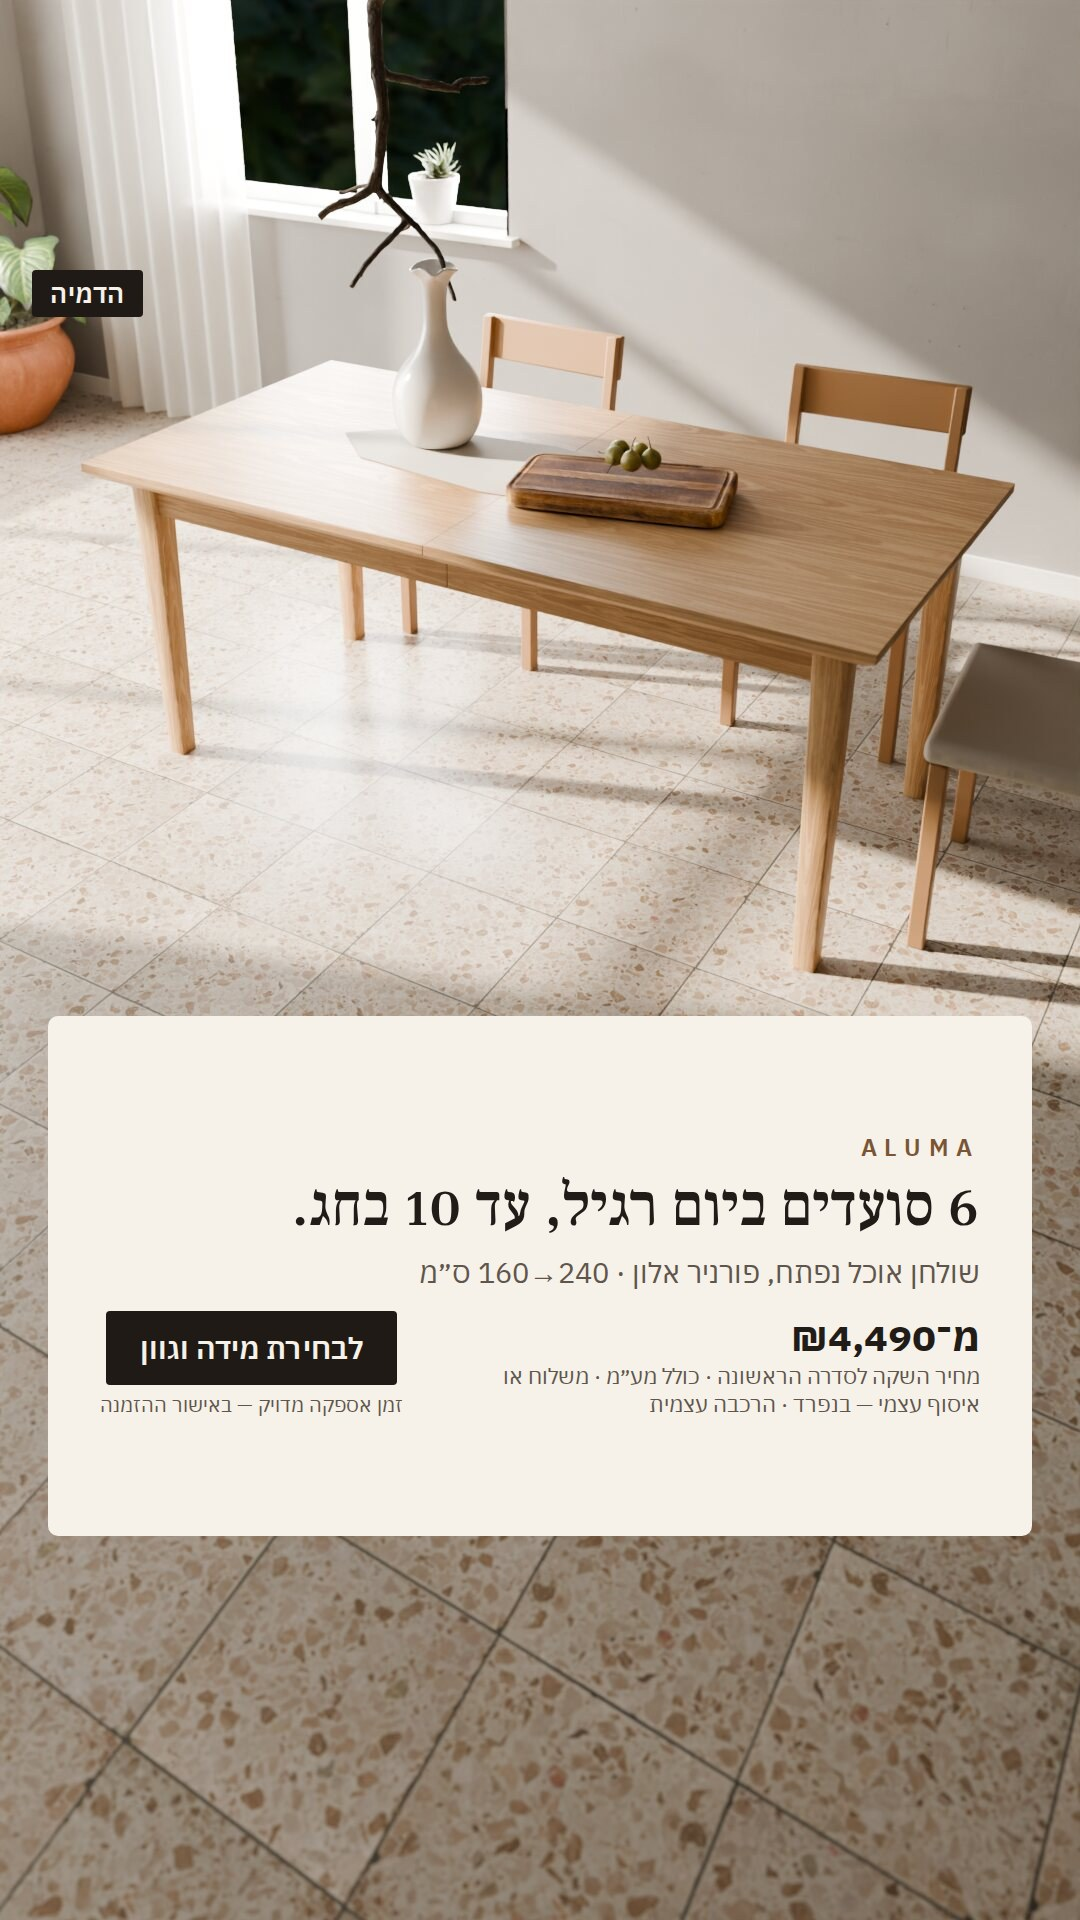
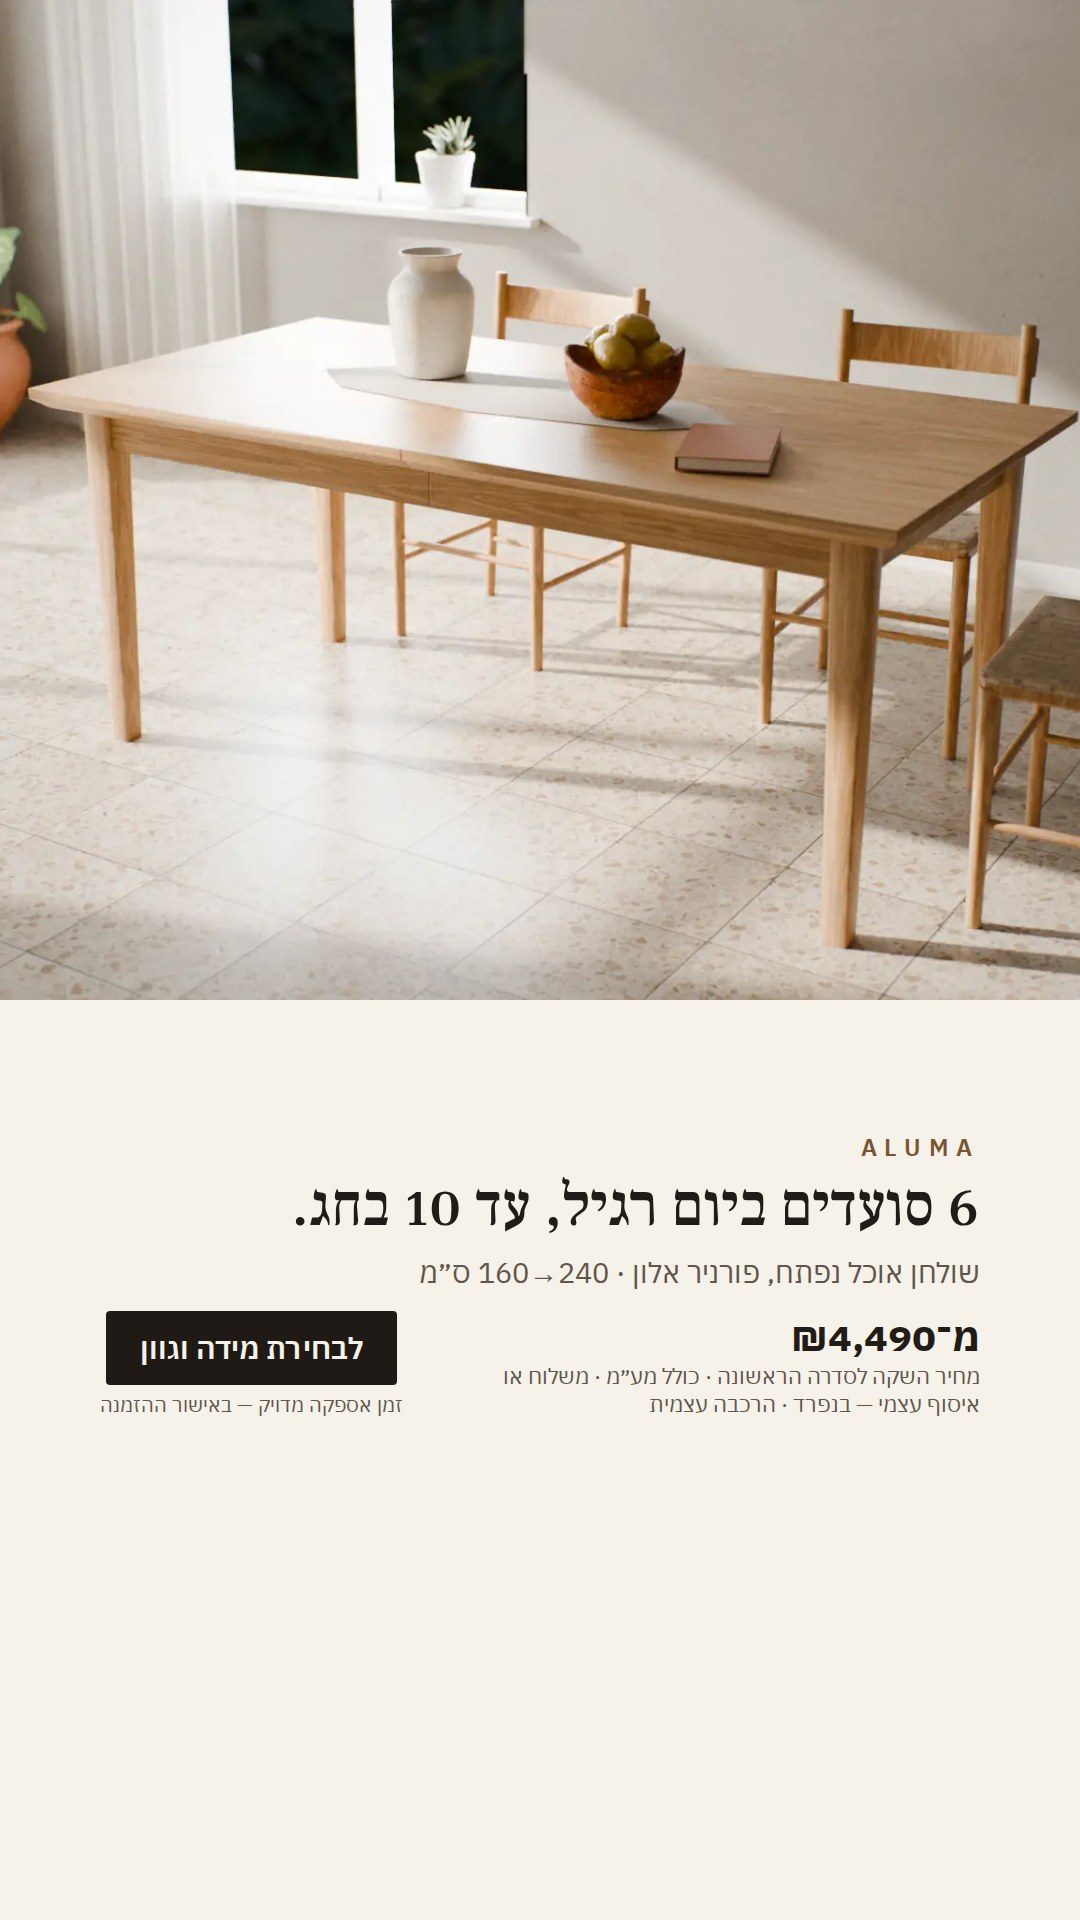
chore(og): OG і креативи перегенеровано без плашки «הדמיה» (№23)
Ті самі інструменти: tools/make-og-products.js (7 OG, home-he без сирого <span>),
tools/creatives/build.js (9 креативів ✓, report.json).

Claude-Session: https://claude.ai/code/session_01JBa4pMSknCistJo1f6VYPh

diff --git a/docs/creatives/preview.html b/docs/creatives/preview.html
@@ -4,9 +4,9 @@
 <style>body{margin:0;padding:24px;background:#F6F1E9;color:#211C17;font:15px/1.4 system-ui,sans-serif}
 h1{font-size:22px;margin:0 0 16px}h2{font-size:17px;margin:24px 0 8px}.row{display:flex;gap:16px;align-items:flex-start;flex-wrap:wrap}
 figure{margin:0}img{display:block;height:auto;max-width:100%;box-shadow:0 1px 4px rgba(0,0,0,.18)}figcaption{font-size:13px;color:#5E554C;margin-top:6px}</style>
-</head><body><h1>ALUMA — креативи для тесту Meta (візуалізації, «הדמיה»)</h1>
+</head><body><h1>ALUMA — креативи для тесту Meta (візуалізації, «»)</h1>
 <p>Згенеровано: node tools/creatives/build.js. Ціни — «מחיר השקה לסדרה הראשונה», з каталогу.</p>
-<section><h2>tavor</h2><div class="row"><figure><img src="tavor-1080x1080.jpg" alt="tavor 1080×1080" width="270" height="270"><figcaption>1080×1080 · 142 KB · текст 9.9 % · контраст ≥ 5.9</figcaption></figure><figure><img src="tavor-1080x1350.jpg" alt="tavor 1080×1350" width="270" height="337.5"><figcaption>1080×1350 · 160 KB · текст 9.1 % · контраст ≥ 5.9</figcaption></figure><figure><img src="tavor-1080x1920.jpg" alt="tavor 1080×1920" width="270" height="480"><figcaption>1080×1920 · 250 KB · текст 6.6 % · контраст ≥ 5.9</figcaption></figure></div></section>
-<section><h2>sahar</h2><div class="row"><figure><img src="sahar-1080x1080.jpg" alt="sahar 1080×1080" width="270" height="270"><figcaption>1080×1080 · 146 KB · текст 9.5 % · контраст ≥ 5.9</figcaption></figure><figure><img src="sahar-1080x1350.jpg" alt="sahar 1080×1350" width="270" height="337.5"><figcaption>1080×1350 · 167 KB · текст 8.7 % · контраст ≥ 5.9</figcaption></figure><figure><img src="sahar-1080x1920.jpg" alt="sahar 1080×1920" width="270" height="480"><figcaption>1080×1920 · 263 KB · текст 6.3 % · контраст ≥ 5.9</figcaption></figure></div></section>
-<section><h2>collection</h2><div class="row"><figure><img src="collection-1080x1080.jpg" alt="collection 1080×1080" width="270" height="270"><figcaption>1080×1080 · 180 KB · текст 9.2 % · контраст ≥ 5.9</figcaption></figure><figure><img src="collection-1080x1350.jpg" alt="collection 1080×1350" width="270" height="337.5"><figcaption>1080×1350 · 219 KB · текст 8.3 % · контраст ≥ 5.9</figcaption></figure><figure><img src="collection-1080x1920.jpg" alt="collection 1080×1920" width="270" height="480"><figcaption>1080×1920 · 240 KB · текст 6.0 % · контраст ≥ 5.9</figcaption></figure></div></section>
+<section><h2>tavor</h2><div class="row"><figure><img src="tavor-1080x1080.jpg" alt="tavor 1080×1080" width="270" height="270"><figcaption>1080×1080 · 141 KB · текст 9.7 % · контраст ≥ 5.9</figcaption></figure><figure><img src="tavor-1080x1350.jpg" alt="tavor 1080×1350" width="270" height="337.5"><figcaption>1080×1350 · 161 KB · текст 8.9 % · контраст ≥ 5.9</figcaption></figure><figure><img src="tavor-1080x1920.jpg" alt="tavor 1080×1920" width="270" height="480"><figcaption>1080×1920 · 171 KB · текст 6.4 % · контраст ≥ 5.9</figcaption></figure></div></section>
+<section><h2>sahar</h2><div class="row"><figure><img src="sahar-1080x1080.jpg" alt="sahar 1080×1080" width="270" height="270"><figcaption>1080×1080 · 147 KB · текст 9.3 % · контраст ≥ 5.9</figcaption></figure><figure><img src="sahar-1080x1350.jpg" alt="sahar 1080×1350" width="270" height="337.5"><figcaption>1080×1350 · 166 KB · текст 8.5 % · контраст ≥ 5.9</figcaption></figure><figure><img src="sahar-1080x1920.jpg" alt="sahar 1080×1920" width="270" height="480"><figcaption>1080×1920 · 175 KB · текст 6.1 % · контраст ≥ 5.9</figcaption></figure></div></section>
+<section><h2>collection</h2><div class="row"><figure><img src="collection-1080x1080.jpg" alt="collection 1080×1080" width="270" height="270"><figcaption>1080×1080 · 173 KB · текст 9.0 % · контраст ≥ 5.9</figcaption></figure><figure><img src="collection-1080x1350.jpg" alt="collection 1080×1350" width="270" height="337.5"><figcaption>1080×1350 · 210 KB · текст 8.1 % · контраст ≥ 5.9</figcaption></figure><figure><img src="collection-1080x1920.jpg" alt="collection 1080×1920" width="270" height="480"><figcaption>1080×1920 · 234 KB · текст 5.9 % · контраст ≥ 5.9</figcaption></figure></div></section>
 </body></html>
